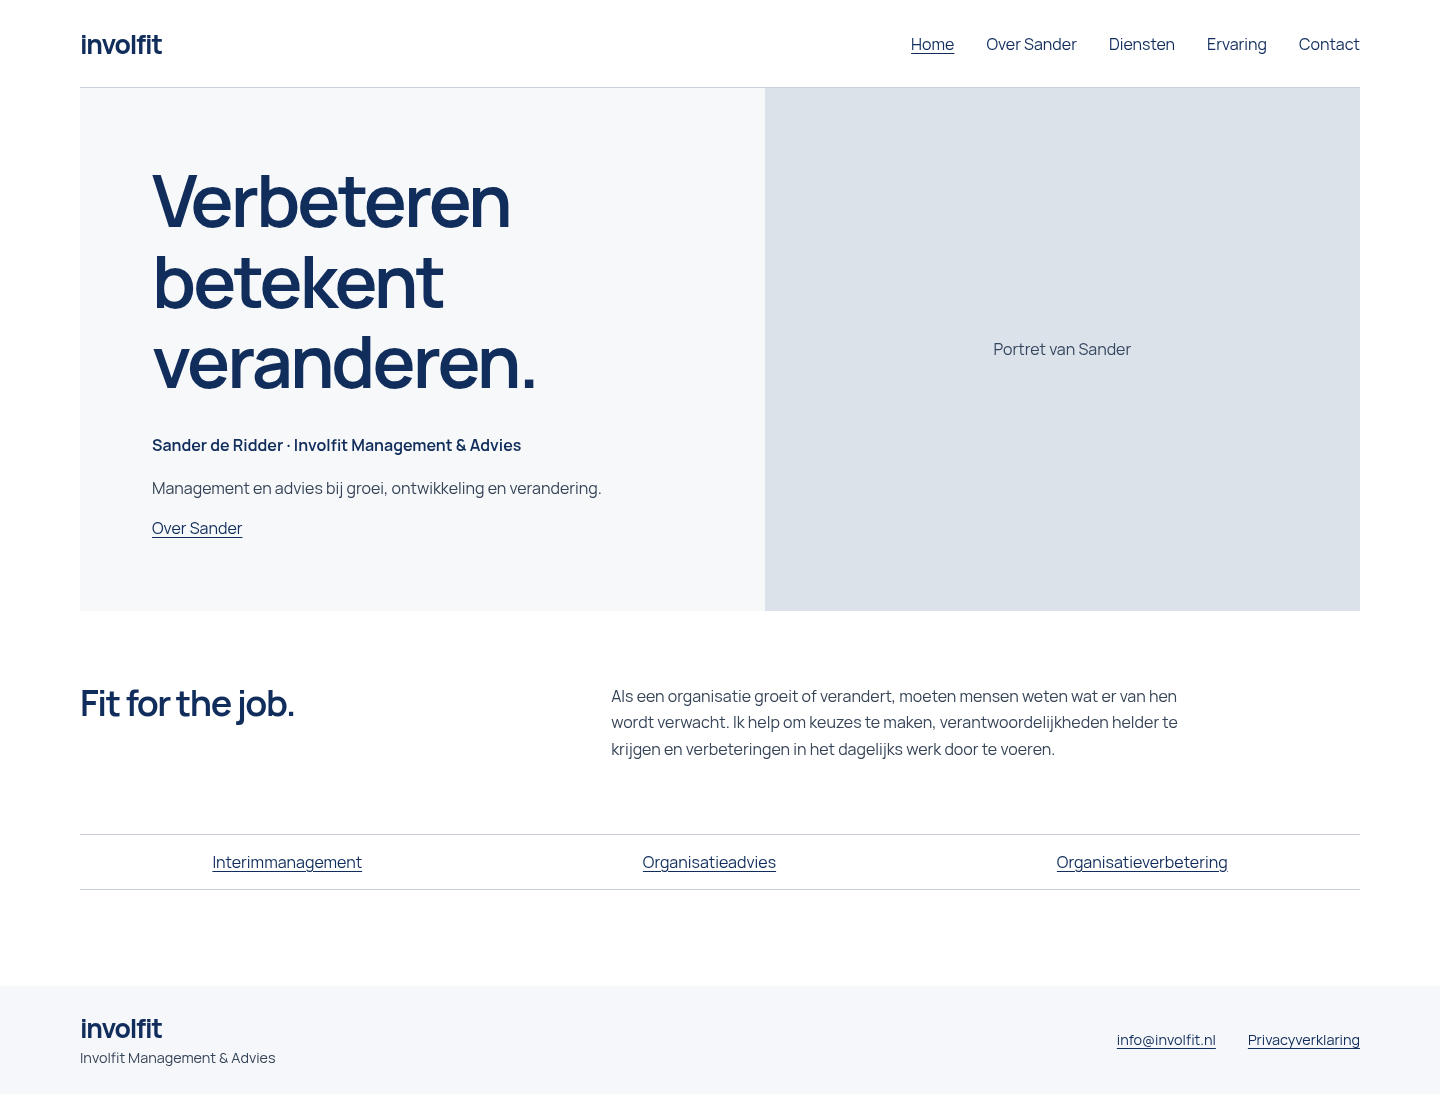
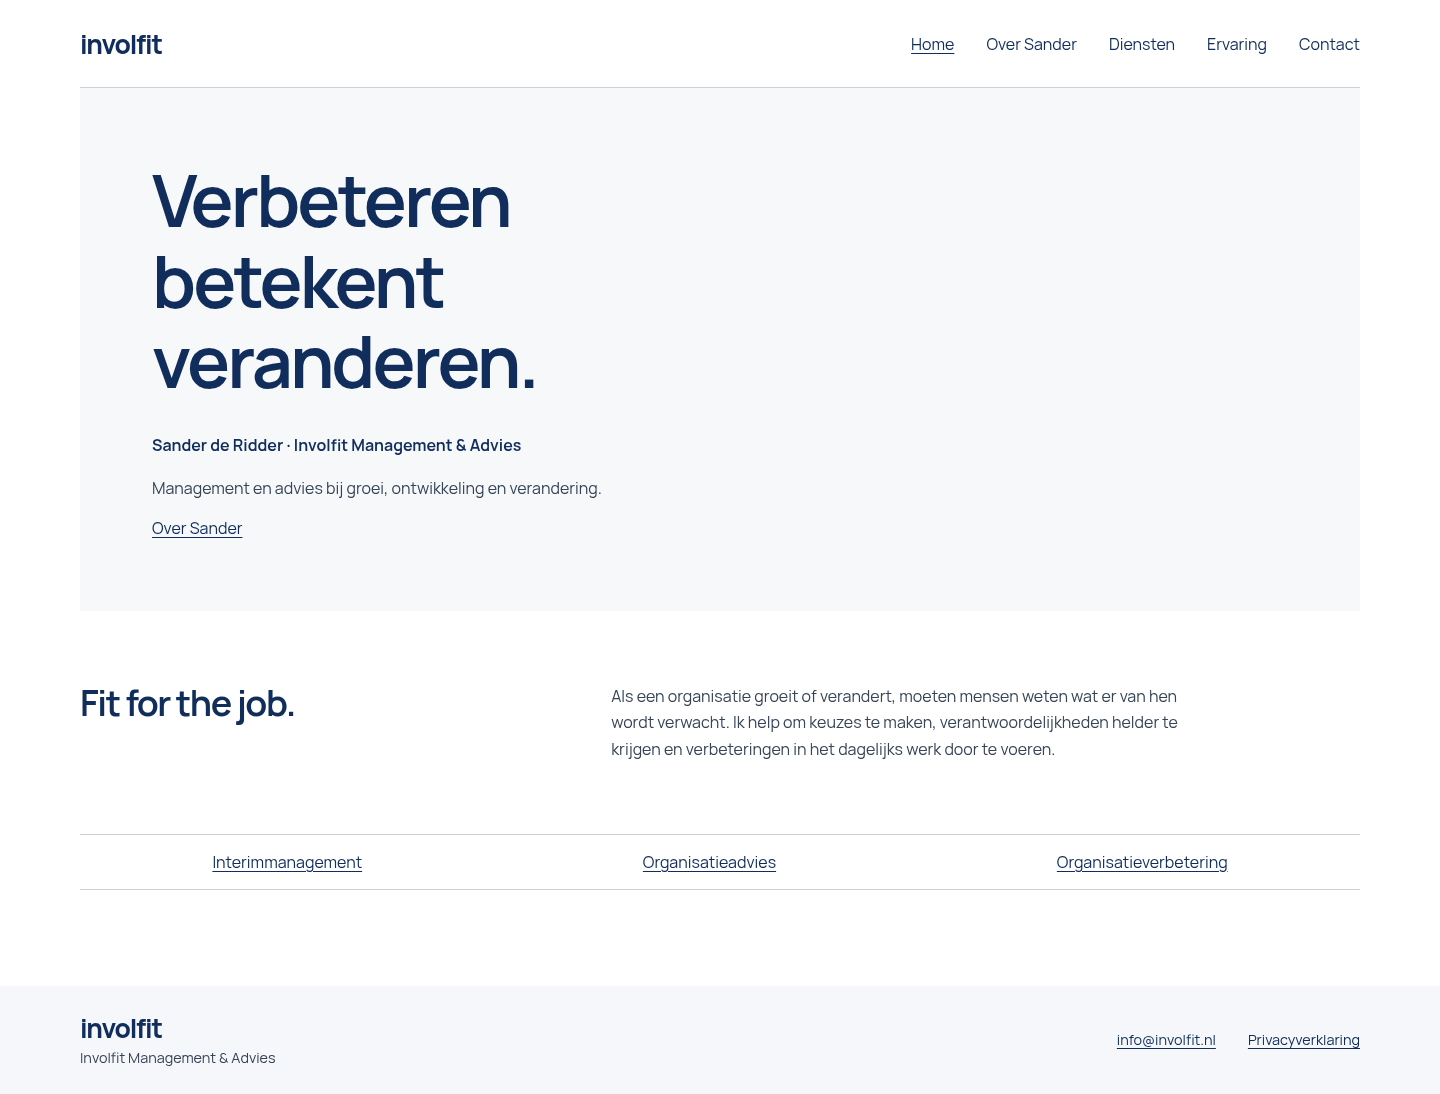
Prepare Involfit for verified portrait and experience content

Changed region(s): [[0.5312, 0.0622, 0.9688, 0.5594]]

diff --git a/projects/involfit/public/site.css b/projects/involfit/public/site.css
@@ -39,11 +39,19 @@ h2 { font-size: clamp(1.4rem, 3vw, 2.25rem); font-weight: 650; }
 .site-footer .shell { padding-block: 1.5rem; }
 .site-footer p, .footer-links { font-size: .9rem; margin: 0; }
 
-.hero { display: grid; grid-template-columns: 1.15fr 1fr; align-items: stretch; background: #f7f8fa; }
+.hero { display: grid; grid-template-columns: minmax(0, 1fr); align-items: stretch; background: #f7f8fa; }
+.hero-with-portrait { grid-template-columns: minmax(0, 1.15fr) minmax(0, 1fr); }
 .hero-copy { padding: clamp(1.75rem, 5vw, 5rem); }
 .hero h1 { max-width: 11ch; margin-bottom: .42em; }
 .hero-name { font-weight: 650; color: var(--ink); }
-.portrait { display: grid; place-items: center; min-height: 18rem; background: #dce2ea; color: #34475f; }
+.portrait {
+  display: block;
+  width: 100%;
+  height: 100%;
+  min-height: 18rem;
+  object-fit: cover;
+  object-position: center 32%;
+}
 .introduction { display: grid; grid-template-columns: .8fr 1.2fr; gap: 2rem; padding-block: clamp(2rem, 5vw, 4.5rem); }
 .introduction p { margin: 0; max-width: 60ch; }
 .expertise-links { display: flex; justify-content: space-around; flex-wrap: wrap; gap: 1rem; border-block: 1px solid var(--line); padding-block: 1rem; }
@@ -63,6 +71,10 @@ summary { cursor: pointer; min-height: 44px; }
 .service-list summary:hover { background: #f5f7fa; }
 .service-content { padding: .3rem .6rem 1.3rem; max-width: 65ch; }
 .next-step { margin-top: 1.75rem; }
+.work-areas-heading { margin-top: 2rem; }
+.work-areas { list-style: none; margin: 0; padding: 0; max-width: 55rem; }
+.work-areas li { border-top: 1px solid var(--line); padding-block: 1rem; }
+.work-areas p { margin-bottom: 0; }
 .timeline { list-style: none; margin: 0; padding-left: 1rem; border-left: 1px solid var(--line); }
 .timeline li { position: relative; padding: .25rem 0 1.25rem .65rem; }
 .timeline li:last-child { padding-bottom: .25rem; }
@@ -92,10 +104,10 @@ summary { cursor: pointer; min-height: 44px; }
     background: white;
   }
   .mobile-nav nav a { min-height: 44px; padding: .65rem .45rem; border-top: 1px solid var(--line); }
-  .hero, .introduction { grid-template-columns: minmax(0, 1fr); }
+  .hero-with-portrait, .introduction { grid-template-columns: minmax(0, 1fr); }
   .hero { width: 100%; }
   .hero-copy { padding-inline: var(--gutter); }
-  .portrait { min-height: clamp(12rem, 50vw, 19rem); }
+  .portrait { height: auto; min-height: 0; aspect-ratio: 4 / 3; }
   .introduction { gap: .5rem; }
   .expertise-links { flex-direction: column; gap: .65rem; }
   .site-footer .shell { align-items: flex-start; flex-direction: column; }

diff --git a/projects/involfit/src/content.ts b/projects/involfit/src/content.ts
@@ -32,3 +32,13 @@ export const services = [
 ] as const;
 
 export const email = 'info@involfit.nl';
+
+interface Experience {
+  period: string;
+  role: string;
+  organization?: string;
+  description: string;
+}
+
+// Voeg alleen geverifieerde, openbaar te gebruiken opdrachten toe.
+export const experience: readonly Experience[] = [];

diff --git a/projects/involfit/review/README.md b/projects/involfit/review/README.md
@@ -1,6 +1,6 @@
 # Review van de persoonlijke Involfit-site
 
-De volledige pagina-opnamen zijn gemaakt in de lokale productiebuild in Chromium op 18 november 2026. Desktop gebruikt 1440 × 1000 CSS-pixels en mobiel 390 × 844. De omgeving biedt alleen een SSH-portal. Een externe HTTP-preview kon daarom niet worden gecontroleerd.
+De volledige pagina-opnamen zijn gemaakt in de lokale productiebuild in Chromium op 20 november 2026. Desktop gebruikt 1440 × 1000 CSS-pixels en mobiel 390 × 844. De omgeving biedt alleen een SSH-portal. Een externe HTTP-preview kon daarom niet worden gecontroleerd.
 
 | Pagina | Desktop | Mobiel |
 | --- | --- | --- |
@@ -11,9 +11,9 @@ De volledige pagina-opnamen zijn gemaakt in de lokale productiebuild in Chromium
 | Contact | [Desktop](contact-desktop.png) | [Mobiel](contact-mobiel.png) |
 | Privacy | [Desktop](privacy-desktop.png) | [Mobiel](privacy-mobiel.png) |
 
-## Onafhankelijke beoordeling
+## Eerdere onafhankelijke beoordeling van het ontwerp
 
-De creatieve reviewer bekeek alle vijf hoofdpagina’s in Chromium en beoordeelde ze met de eigenaarsrubric.
+Op 18 november bekeek de creatieve reviewer alle vijf hoofdpagina’s in Chromium en beoordeelde ze met de eigenaarsrubric.
 
 | Onderdeel | Gewicht | Cijfer |
 | --- | ---: | ---: |
@@ -33,4 +33,5 @@ Een tweede reviewer testte menu en uitklapblokken met toetsenbord en touch, cont
 
 - De typecontrole, de productiebuild en de vijf Node-tests zijn geslaagd.
 - De browsercontrole op de bijgewerkte versie deed 30 layoutchecks op vijf breedtes, inclusief 320 CSS-pixels. Ze controleerde navigatie, zichtbare focus, Escape, touch, uitklapblokken, deeplinks, reduced motion en bediening zonder JavaScript. Zie [testresultaten](test-results.json).
+- Op 20 november zijn de homepage zonder portret en de pagina Ervaring met werkgebieden opnieuw getest. In een tijdelijke testbuild zijn ook responsieve portretbestanden en een tijdlijnitem gecontroleerd. De testinhoud is buiten de site gehouden.
 - Sanders portret, de bio, de definitieve diensten, het zakelijke adres en de loopbaanfeiten wachten op inhoudelijke bevestiging. De tijdlijn toont voorlopig werkgebieden.

diff --git a/projects/involfit/README.md b/projects/involfit/README.md
@@ -24,8 +24,8 @@ python3 tests/browser.py --screenshots /tmp/involfit-review
 
 ## Inhoud en vrijgave
 
-- Home reserveert ruimte voor het goedgekeurde portret.
-- Ervaring toont voorlopig werkgebieden. Vul de tijdlijn in met bevestigde perioden, rollen, opdrachten en eventueel openbare organisatienamen.
+- Plaats Sanders goedgekeurde portret als `src/assets/sander.jpg` (ook PNG, WebP of AVIF mogelijk). Astro maakt responsieve WebP-varianten. Zonder bestand toont Home alleen de introductie.
+- Ervaring toont werkgebieden zolang er geen bevestigde opdrachten zijn. Vul `experience` in `src/content.ts` in, meest recente eerst, met periode, rol, opdracht en eventueel een openbare organisatienaam.
 - Bevestig de bio, de dienstnamen en het bestaande zakelijke adres `info@involfit.nl` vóór publicatie.
 - Staging is standaard gemarkeerd als `noindex`. Zet `SITE_INDEXABLE` pas na goedgekeurde publicatie op `1`.
 - Het bestaande formulierendpoint blijft beschikbaar voor compatibiliteit. De website linkt er niet naar en configureert geen mailprovider voor deze versie. Zie de vorige projectversie voor de endpointconfiguratie.
